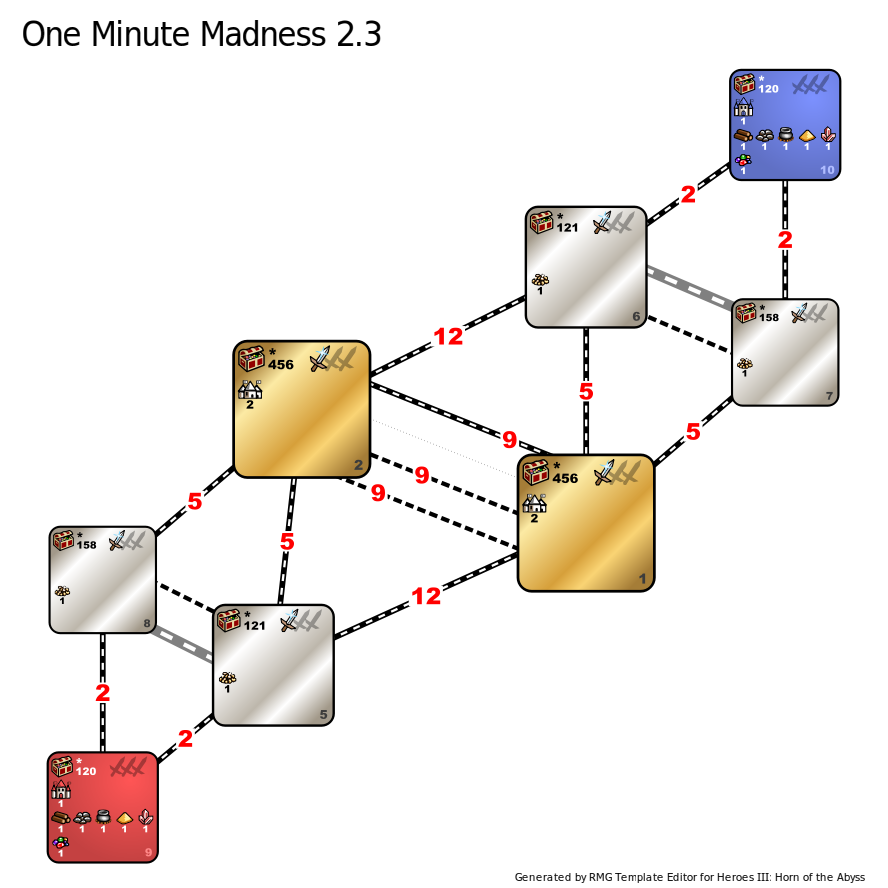
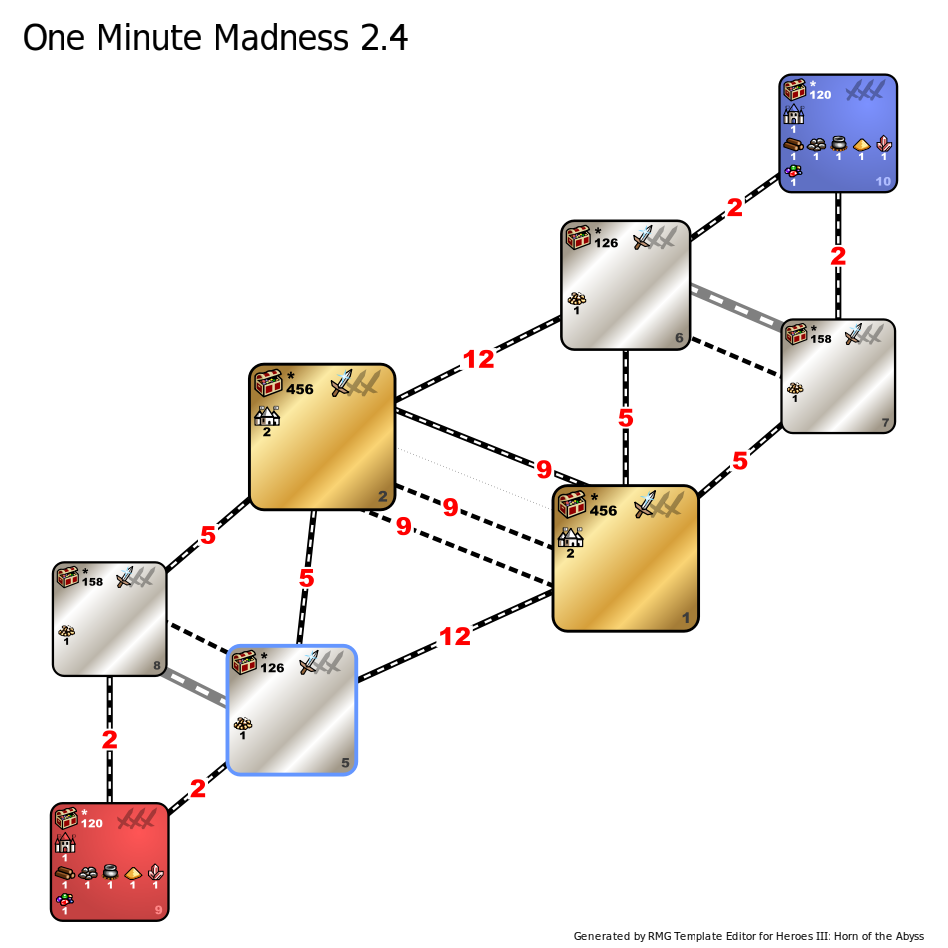
1MM v2.4

diff --git a/templates/one_minute_madness/index.md b/templates/one_minute_madness/index.md
@@ -6,7 +6,7 @@ title: One Minute Madness
 
 ## One Minute Madness
 
-[Download One Minute Madness 2.3a](./One%20Minute%20Madness%202.3a.zip)
+[Download One Minute Madness 2.4](./One%20Minute%20Madness%202.4.zip)
 
 [Changelog](changelog.html)
 
@@ -99,7 +99,8 @@ Players start in a monsterless zone with lots of resources and mines. This zone 
     * Trailblazers, Windmills, Derricks, Prospectors, and Warehouses of any kind are disabled in this zone.
 * Zones 5 and 6 are grass zones.
     * Terrain is always Grass.
-    * A single Stables spawn in this zone, with object value increased to 1000.
+    * A single Stables spawns in this zone, with object value increased to 1000.
+    * A single War Machine Factory spawns in this zone, with object value increased to 2500.
     * Water Wheels have their value increased to 1000, and their frequency to 150.
     * Wood has its frequency increased to 350.
     * A single Pandora's Box containing 5000 xp spawns in this zone.
@@ -131,7 +132,7 @@ Players start in a monsterless zone with lots of resources and mines. This zone 
     * Obelisks
     * Town Gates
     * Quest artifacts
-    * Spell Scrolls with Fly/Water Walk/Dimension Door/Town Portal
+    * Spell Scrolls with Level 4 or 5 spells
     * Dwellings
     * Trading Posts
     * Taverns
@@ -159,10 +160,11 @@ Players start in a monsterless zone with lots of resources and mines. This zone 
     * Tier 5: Dimension Door, Fly, Magic Mirror
 * Banned Artifacts: 
     * Treasure: Ring of Vitality, Amulet of the Undertaker, Bird of Perception, Stoic Watchman, Legs of Legion, Necklace of Swiftness, Charm of Mana, Talisman of Mana, Pendant of Dispassion, Pendant of Free Will, Pendant of Life, Pendant of Death, Pendant of Total Recall, Pendant of Holiness,  Bow of Elven Cherrywood 
-    * Minor: Charm of Eclipse, Seal of Sunset, Emblem of Cognizance, Boots of Speed, Vampire's Cowl, Loins of Legion, Torso of Legion, Bowstring of the Unicorn's Mane, Inexhaustible Cart of Lumber, Inexhaustible Cart of Ore
+    * Minor: Emblem of Cognizance, Boots of Speed, Vampire's Cowl, Loins of Legion, Torso of Legion, Bowstring of the Unicorn's Mane, Inexhaustible Cart of Lumber, Inexhaustible Cart of Ore
     * Major: Pendant of Second Sight, Dead Man's Boots, Ambassador's Sash, Wayfarer's Boots, Diplomat's Ring, Statesman's Medal, Orb of Silt, Orb of the Firmament, Orb of Driving Rain, Orb of Tempestous Fire, Arms of Legion, Head of Legion, Endless Bag of Gold, Endless Purse of Gold, Pendant of Negativity, Angel Feather Arrows, Ring of Infinite Gems, Eversmoking Ring of Sulfur, Everpouring Vial of Mercury, Everflowing Crystal Cloak, Cape of Silence, Cape of Velocity
     * Relic: can't spawn
     * Combination: all impossible to assemble
-* Banned heroes: Ufretin, Piquedram, Solmyr, Ayden, Straker, Aislinn, Deemer, Giselle, Leena, Rion, Verdish, Agar
-* Unbanned heroes: Kilgor, Mutare, Xeron, Murdoch
+* Banned Skills: Diplomacy
+* Banned Heroes: Ufretin, Piquedram, Solmyr, Ayden, Straker, Aislinn, Deemer, Giselle, Leena, Rion, Verdish, Agar
+* Unbanned Heroes: Kilgor, Mutare, Xeron, Murdoch
 * Combat turn limit: 100

diff --git a/templates/one_minute_madness/changelog.md b/templates/one_minute_madness/changelog.md
@@ -7,6 +7,18 @@ title: HoMM3 Template Vault | One Minute Madness changelog
 
 ## One Minute Madness - Changelog
 
+### Version 2.4
+
+[Download](./One%20Minute%20Madness%202.4.h3t)
+
+Surprisingly, despite all the janky updates made by the HotA Crew in a pretty good shape right now.
+
+* Diplomacy skill is banned. It wasn't exactly that useful on 1MM - there aren't really any neutral stacks worth paying for spawning here. One could argue for buffing this skill by bumping the join percentage to 75% or 100% - but this could give an opportunity for way too many week 1 rushes. And since the recent unban of the Learning and Eagle Eye, banning Diplomacy isn't really much of a loss in the first place and banning it to improve levelling consistency a bit feels like a good idea.
+* Set a limit of Scholars on Wasteland zones to 5. This is done to limit some utterly jank generations with way too many Scholars spawning for no reason.
+* Banned Tier 4 and 5 scrolls from spawning. They can provide access to powerful spells without any real investment - even other spell cheats (shrines and pyramids) require hero to have Wisdom skill
+* Added 1 War Machine Factory to the Grass Zones, with object value set to 2500. With Artillery and First Aid buffs, using war machines become a much more interesting prospect nowadays. Sadly, on the One Minute Madness template, there are huge accessibility problems when it comes to war machines - you can have no real access to a Ballista or a First Aid Tent unless you get lucky with tavern heroes. 
+* Unbanned Seal of Sunset and Charm of Eclipse artifacts. Mages got buffed, and after removing the Chain Lightning magic heroes can still dish out a lot of damage from spells.
+
 ### Version 2.3a
 
 [Download](./One%20Minute%20Madness%202.3a.h3t)
